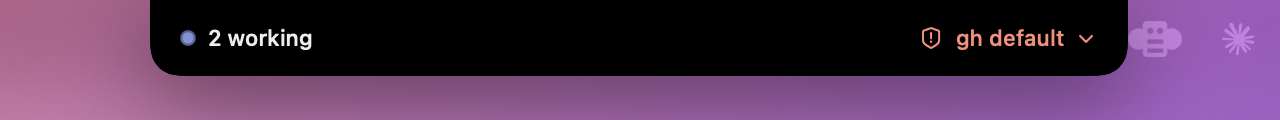
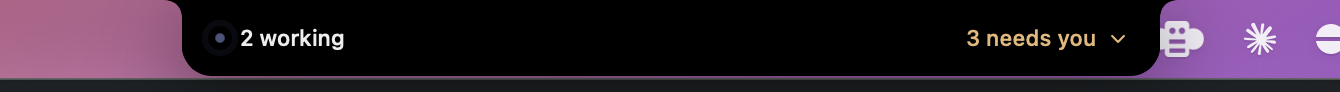
README screenshots: Claude and Codex in every section, minimal density first
Reshot in a demo home with both tools working and both needing you, the
segmented meters, the collapsed pill with its ears, and the grown General
pane. The hero panel is the minimal density, now the default; the cozy
cards follow further down.

diff --git a/README.md b/README.md
@@ -18,7 +18,7 @@
 </p>
 
 <p align="center">
-  <img src="docs/screenshots/panel.png" width="520" alt="The expanded panel: sessions that need you, working sessions, Claude and Codex usage with pace marks, and the GitHub account guard">
+  <img src="docs/screenshots/panel.png" width="520" alt="The expanded panel: Claude Code and Codex sessions that need you, working sessions, both subscriptions' usage with pace marks, and the GitHub account guard">
 </p>
 
 ## What it does
@@ -81,7 +81,7 @@ Open Settings from the gear icon in the panel footer or with `open notchhud://se
 </p>
 
 <p align="center">
-  <img src="docs/screenshots/panel-minimal.png" width="520" alt="Minimal density: one line per session">
+  <img src="docs/screenshots/panel-cozy.png" width="520" alt="Cozy density: sessions that need you as full cards with the request text and an open button">
 </p>
 
 ## Config file
